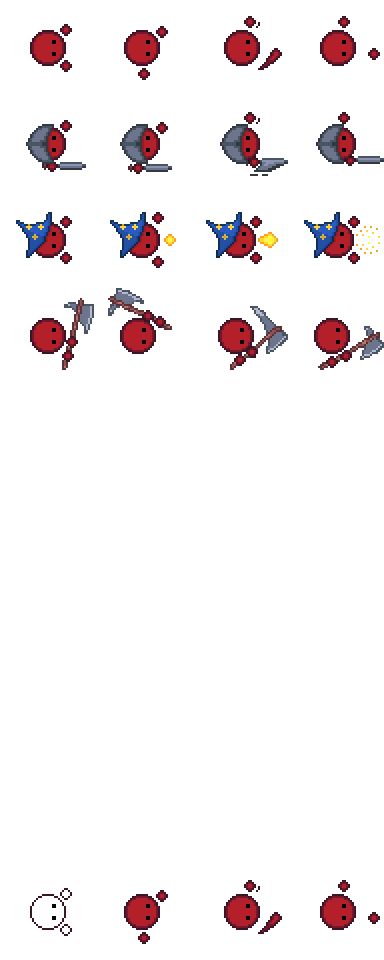
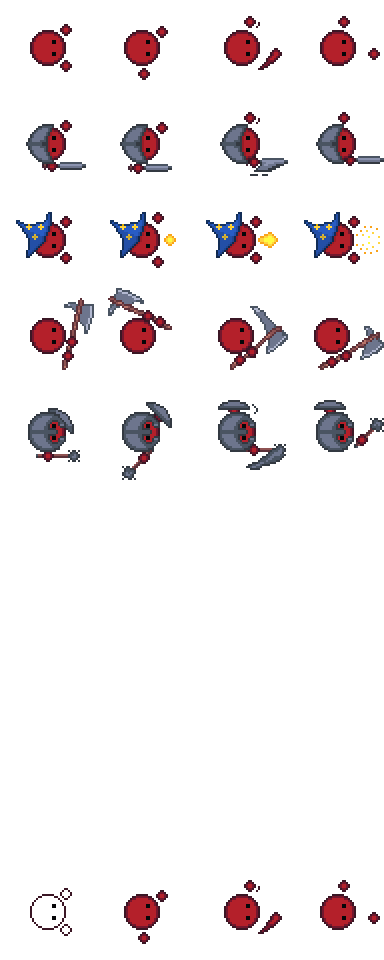
guard

diff --git a/js/entities/UnitEntity.js b/js/entities/UnitEntity.js
@@ -21,12 +21,12 @@ class UnitEntity extends BaseEntity {
     }
 
     spaceout() {
-        if(this.timers.spaceout.every(3)) {
+        if(this.timers.spaceout.every(1)) {
             for(let u of [...this.allyTeamContainer.children, ...this.opposedTeamContainer.children]) {
                 if(u !== this && !u.expired && Mx.Geo.Collision.circleVsCircle(u.hitcircle, this.hitcircle)) {
                     const phi = this.directionTo(u.x, u.y);
-                    this.movePolar(-phi, 3);
-                    u.movePolar(phi, 3);
+                    this.movePolar(-phi, 2);
+                    u.movePolar(phi, 2);
                 }
             }
         }
@@ -41,7 +41,7 @@ class UnitEntity extends BaseEntity {
 
     findTarget() {
         // TODO targeting stragety based on attack type (?)
-        if(this.timers.spaceout.every(120) || this.target === null || this.target.dead()) {
+        if(this.timers.spaceout.every(300) || this.target === null || this.target.dead()) {
             this.target = null;
             let dist = Infinity;
             for(let u of this.opposedTeamContainer.children) {
@@ -60,7 +60,7 @@ class UnitEntity extends BaseEntity {
         this.attack.tick();
         if(this.target) {
             const phi = this.directionTo(this.target.x, this.target.y);
-            const dphi = this.sprite.rotation - phi;
+            let dphi = this.sprite.rotation - phi;
             this.sprite.rotation -= dphi * 0.1;
             const dist = Mx.Geo.Distance.simple(this.x, this.y, this.target.x, this.target.y);
             if(dist > this.attack.range) {

diff --git a/js/templates/unit.templates.js b/js/templates/unit.templates.js
@@ -5,6 +5,7 @@ const UNIT_TEMPLATES = new Repository(
     ['P_SWORDSMAN', 'Swordsman', 'player-units', 0, 1, 22, 30, 2, 15, 1.5, 30, 60, 140, [20, 5, 40]],
     ['P_WIZARD', 'Wizard', 'player-units', 0, 2, 18, 15, 0, 30, 1, 40, 400, 240, [30, 20, 30]],
     ['P_AXEMAN', 'Axeman', 'player-units', 0, 3, 24, 40, 0, 25, 2.5, 80, 70, 180, [40, 5, 40]],
+    ['P_GUARD', 'Guard', 'player-units', 0, 4, 22, 50, 4, 15, 1, 80, 60, 140, [30, 5, 40]],
     // ENEMY UNITS
     ['E_GRUNT', 'Grunt', 'enemy-units', 0, 0, 18, 15, 0, 8, 2, 8, 50, 180, [20, 5, 30]],
     ['E_SKELETON', 'Skeleton', 'enemy-units', 0, 1, 16, 10, 0, 6, 0.5, 5, 50, 210, [30, 5, 40]],

diff --git a/js/views/gameplay/TopMenu.js b/js/views/gameplay/TopMenu.js
@@ -9,7 +9,7 @@ class TopMenu extends Mx.Gui.GuiComponent {
         this.selectedUnit = null;
         this.background = guiLayer.add2(ssl.get('top-menu-background').get(0, 0).place(this.x, this.y));
         this.toolButtons = [];
-        ['P_PEASANT', 'P_SWORDSMAN', 'P_WIZARD', 'P_AXEMAN'].forEach((key, i) => {
+        ['P_PEASANT', 'P_SWORDSMAN', 'P_WIZARD', 'P_AXEMAN', 'P_GUARD'].forEach((key, i) => {
             const button = new TopMenuUnitButton(this.x + 708 - i * 80, this.y, this.options.viewRef, this, key);
             this.toolButtons.push(guiLayer.add2(button));
         });
